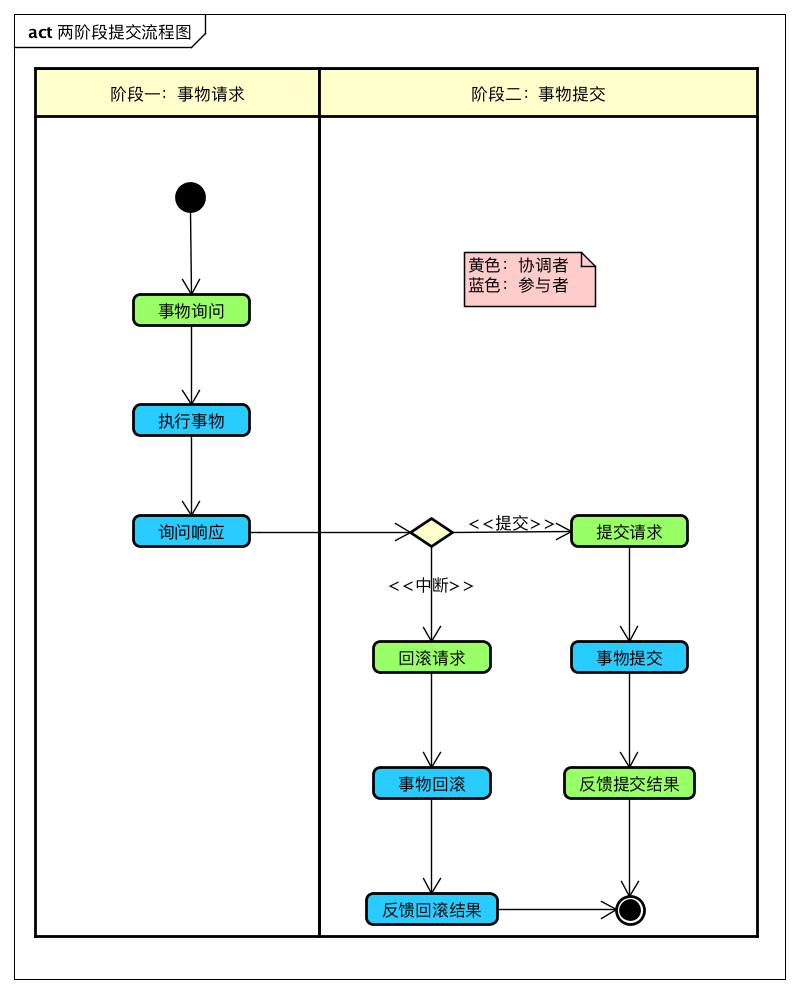
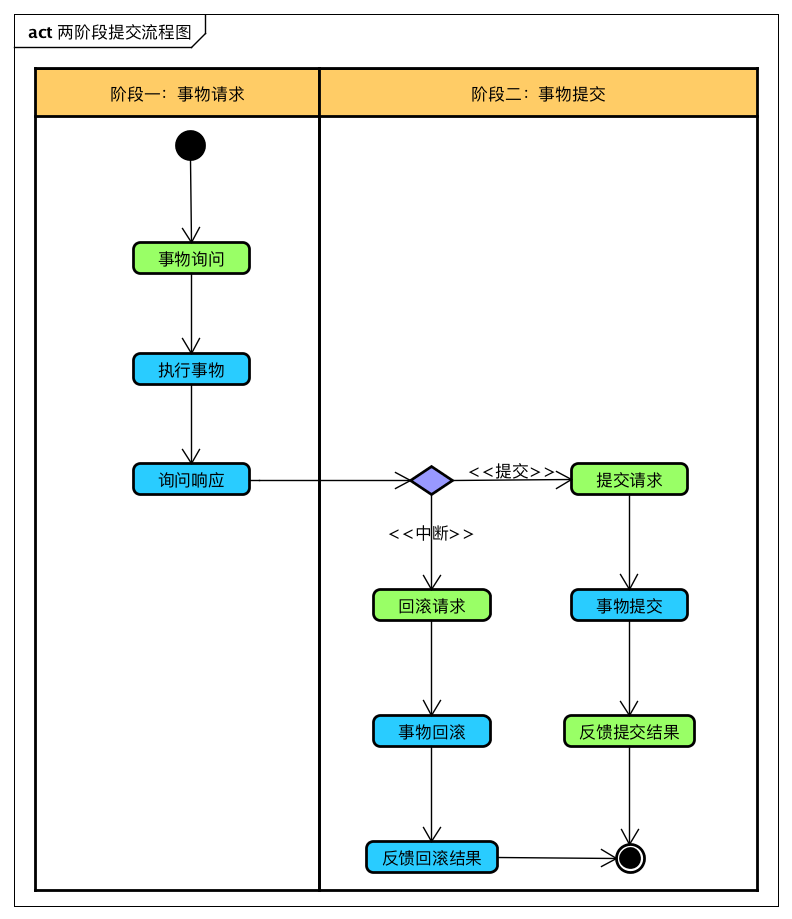
修改两阶段提交流程图

Changed region(s): [[0.0, 0.0, 0.9697, 0.975], [0.5758, 0.2437, 0.7576, 0.3351]]

diff --git a/zookeeper/zookeeper学习之一致性协议.md b/zookeeper/zookeeper学习之一致性协议.md
@@ -71,6 +71,8 @@
 其流程图如下：
 ![两阶段提交流程图](../pictures/两阶段提交流程图.png)
 
+注：黄色代表参与者，蓝色代表协调者
+
 # 二、三阶段提交（3PC）
 
 三阶段提交，是二阶段提交的改进版，即将二阶段提交协议的“提交事物请求”过程一分为二，形成了由CanCommit、PreCommit、doCommit三个阶段组成的事物处理协议
